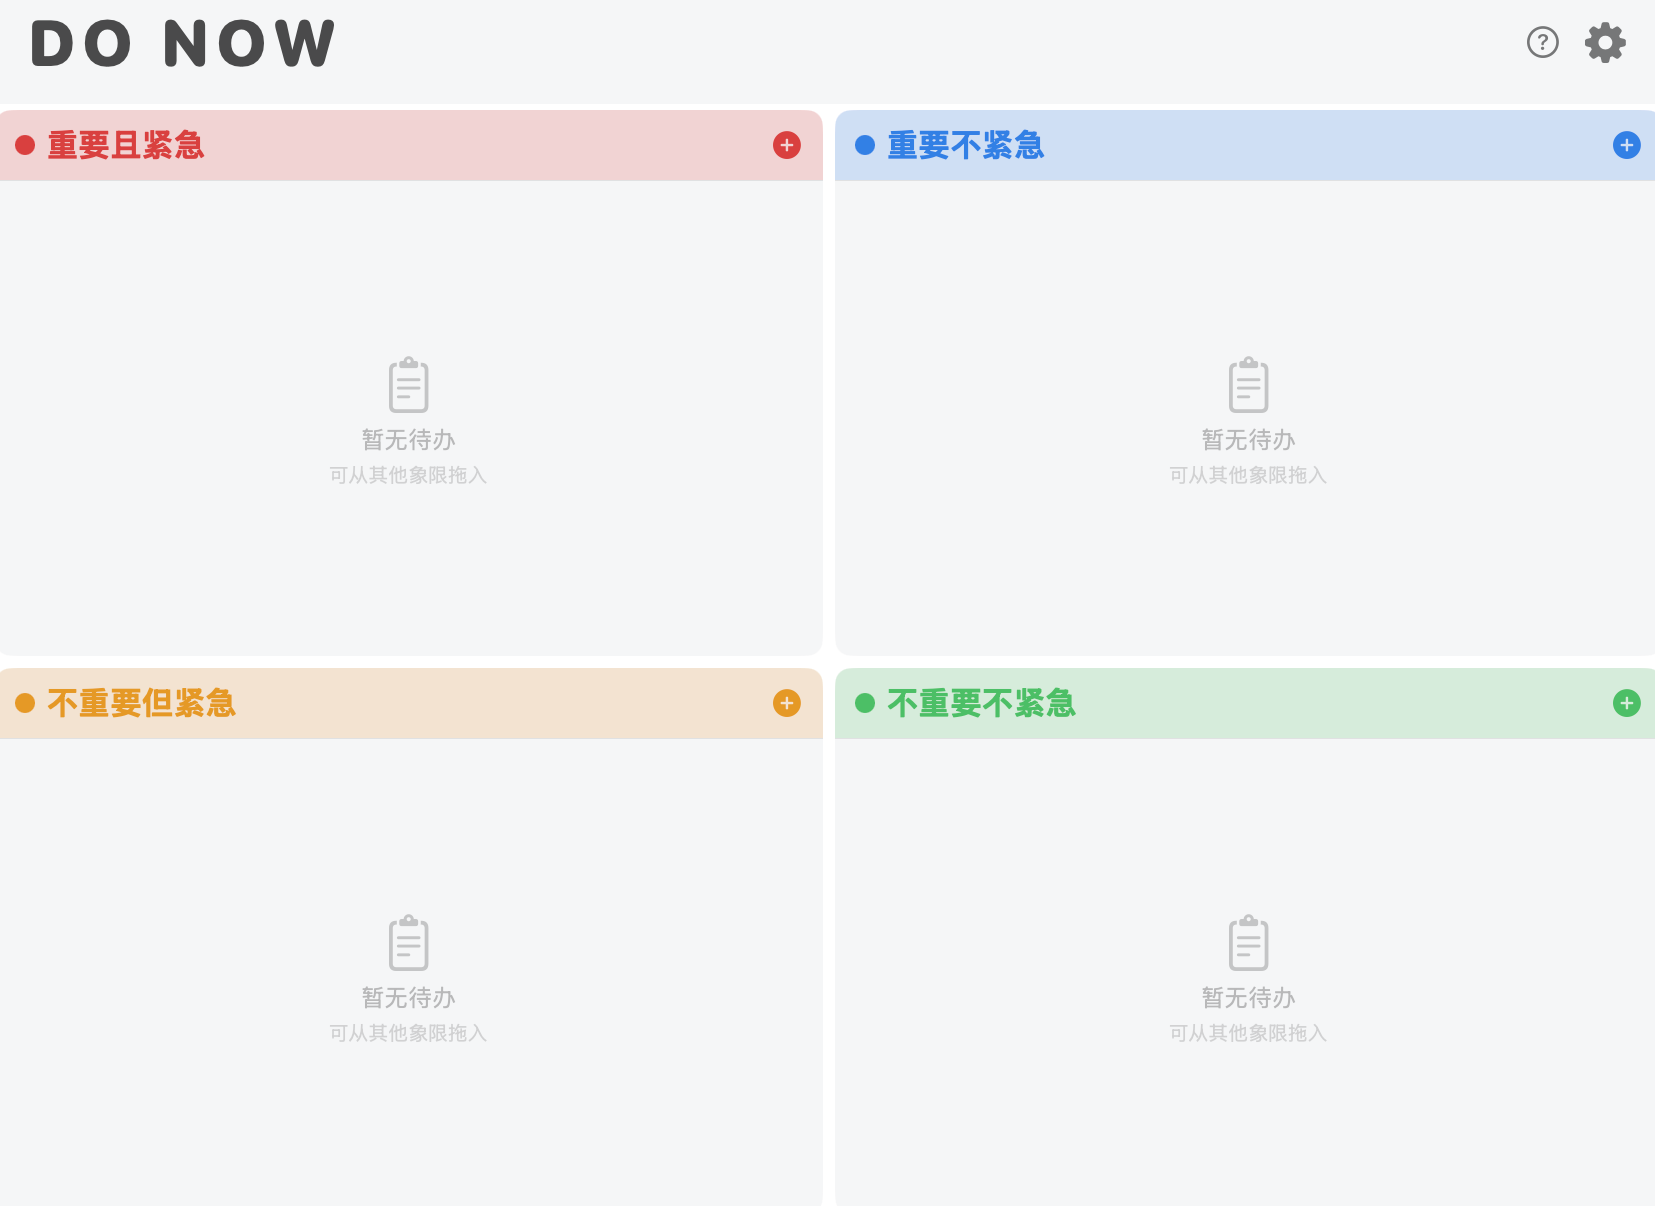
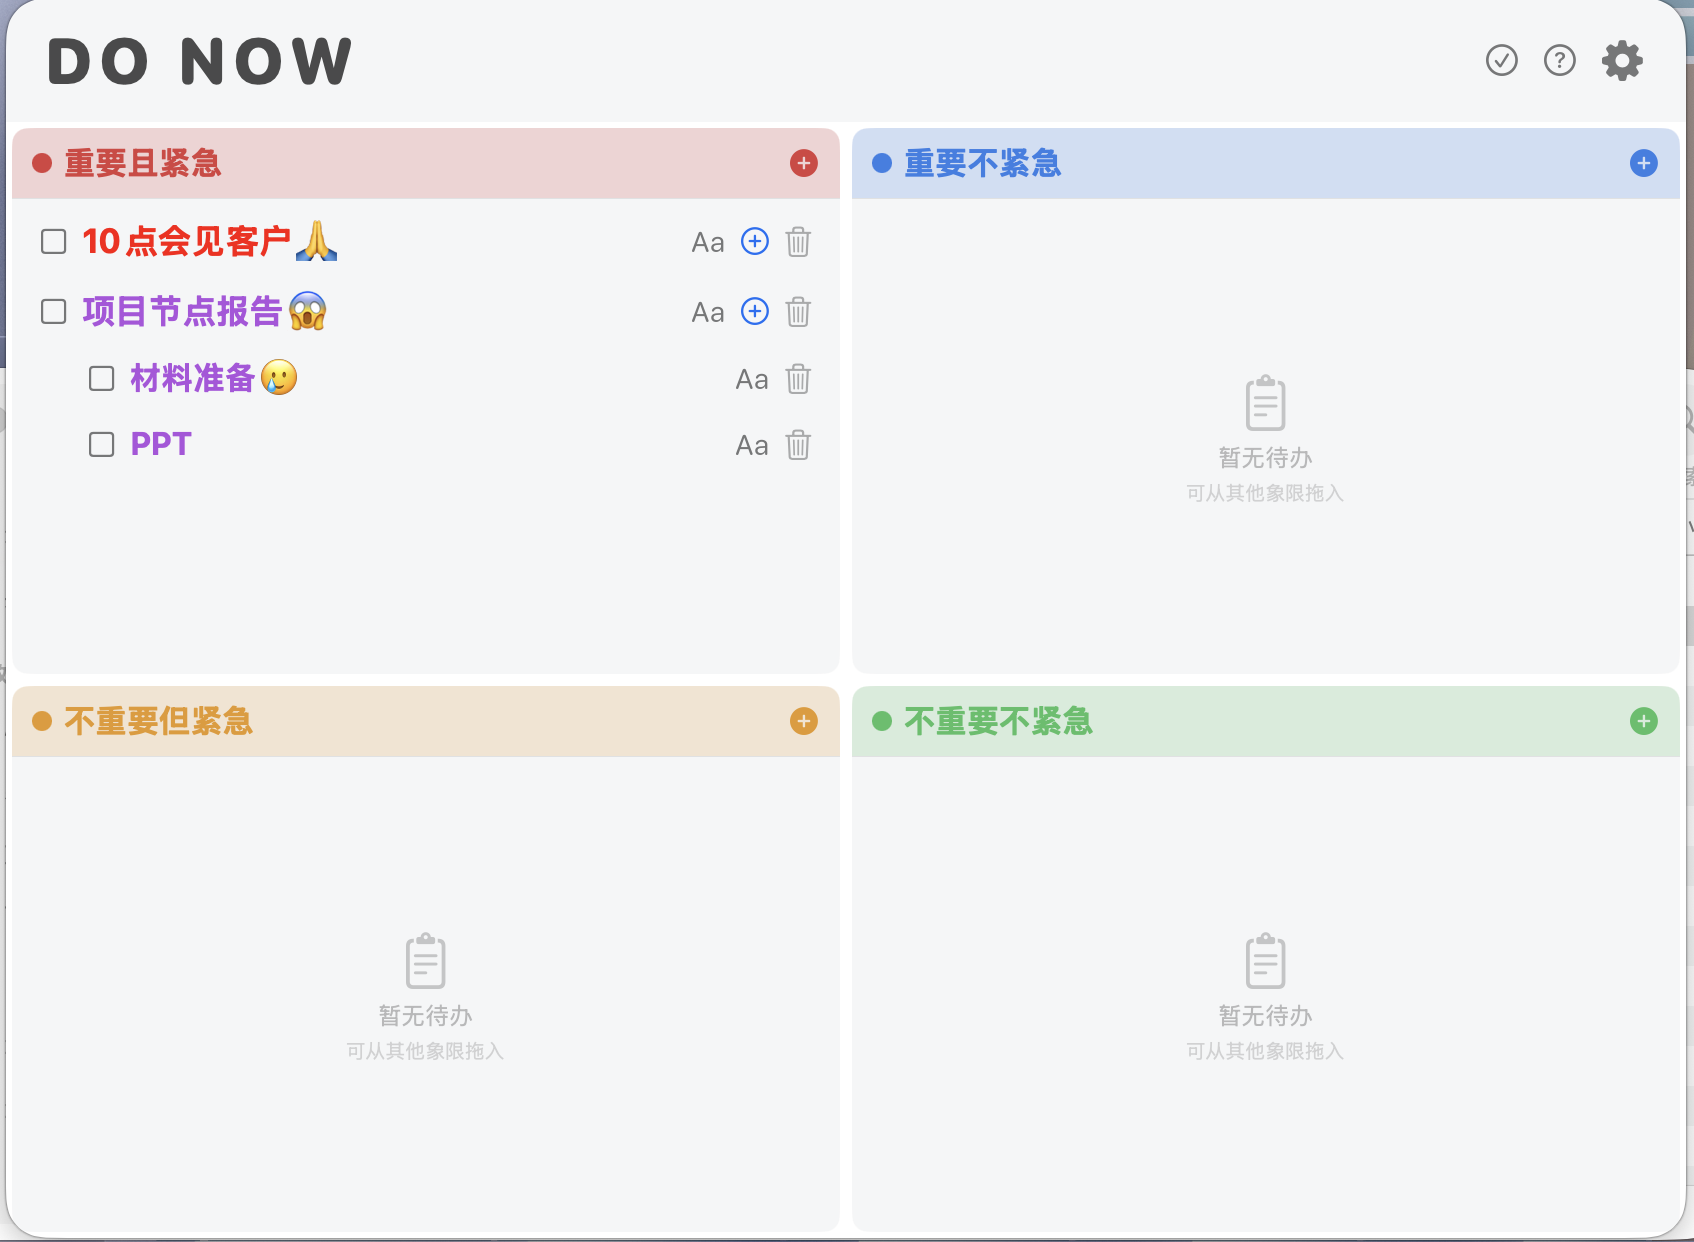
Update assets

diff --git a/Sources/ViewModels/TodoViewModel.swift b/Sources/ViewModels/TodoViewModel.swift
@@ -333,13 +333,15 @@ final class TodoViewModel {
     }
 
     func exportCSV(to url: URL) {
-        var csv = "id,title,isCompleted,quadrant,createdAt,parentId\n"
+        var csv = "id,title,isCompleted,quadrant,createdAt,parentId,textColor,isBold,isItalic,fontSize\n"
         let dateFormatter = ISO8601DateFormatter()
         for item in items {
             let parentId = item.isSubtask ? "parent" : ""
-            csv += "\(item.id.uuidString),\"\(escapeCSV(item.title))\",\(item.isCompleted),\(item.quadrant.rawValue),\(dateFormatter.string(from: item.createdAt)),\(parentId)\n"
+            let fs1 = item.fontSize != nil ? String(item.fontSize!) : ""
+            csv += "\(item.id.uuidString),\"\(escapeCSV(item.title))\",\(item.isCompleted),\(item.quadrant.rawValue),\(dateFormatter.string(from: item.createdAt)),\(parentId),\(item.textColor ?? ""),\(item.isBold),\(item.isItalic),\(fs1)\n"
             for subtask in item.subtasks {
-                csv += "\(subtask.id.uuidString),\"\(escapeCSV(subtask.title))\",\(subtask.isCompleted),\(subtask.quadrant.rawValue),\(dateFormatter.string(from: subtask.createdAt)),\(item.id.uuidString)\n"
+                let fs2 = subtask.fontSize != nil ? String(subtask.fontSize!) : ""
+                csv += "\(subtask.id.uuidString),\"\(escapeCSV(subtask.title))\",\(subtask.isCompleted),\(subtask.quadrant.rawValue),\(dateFormatter.string(from: subtask.createdAt)),\(item.id.uuidString),\(subtask.textColor ?? ""),\(subtask.isBold),\(subtask.isItalic),\(fs2)\n"
             }
         }
         try? csv.write(to: url, atomically: true, encoding: .utf8)
@@ -536,7 +538,14 @@ final class TodoViewModel {
             let parentId = cols[5]
 
             if parentId.isEmpty {
-                imported.append(TodoItem(id: uuid, title: title, isCompleted: isCompleted, quadrant: quadrant, createdAt: createdAt))
+                var item = TodoItem(id: uuid, title: title, isCompleted: isCompleted, quadrant: quadrant, createdAt: createdAt)
+                if cols.count > 6 {
+                    item.textColor = cols[6].isEmpty ? nil : cols[6]
+                    item.isBold = cols[7] == "true"
+                    item.isItalic = cols[8] == "true"
+                    item.fontSize = Double(cols[9])
+                }
+                imported.append(item)
             }
         }
 
@@ -553,7 +562,16 @@ final class TodoViewModel {
             guard let quadrant = Quadrant(rawValue: cols[3]) else { continue }
             let createdAt = dateFormatter.date(from: cols[4]) ?? Date()
             let subtask = TodoItem(id: uuid, title: title, isCompleted: isCompleted, isSubtask: true, quadrant: quadrant, createdAt: createdAt)
-            imported[parentIdx].subtasks.append(subtask)
+            if cols.count > 6 {
+                var s = subtask
+                s.textColor = cols[6].isEmpty ? nil : cols[6]
+                s.isBold = cols[7] == "true"
+                s.isItalic = cols[8] == "true"
+                s.fontSize = Double(cols[9])
+                imported[parentIdx].subtasks.append(s)
+            } else {
+                imported[parentIdx].subtasks.append(subtask)
+            }
         }
 
         guard !imported.isEmpty else { return false }